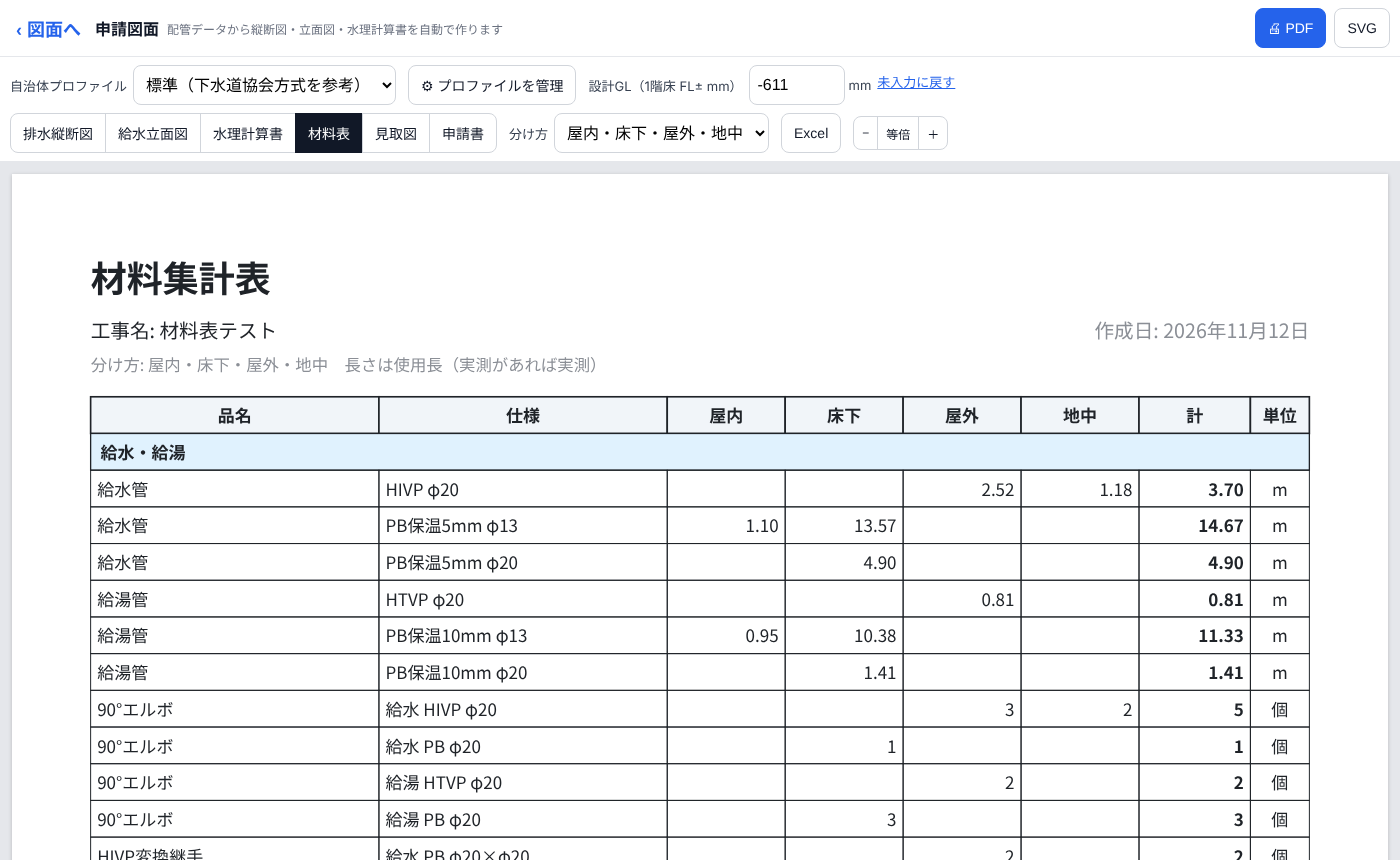
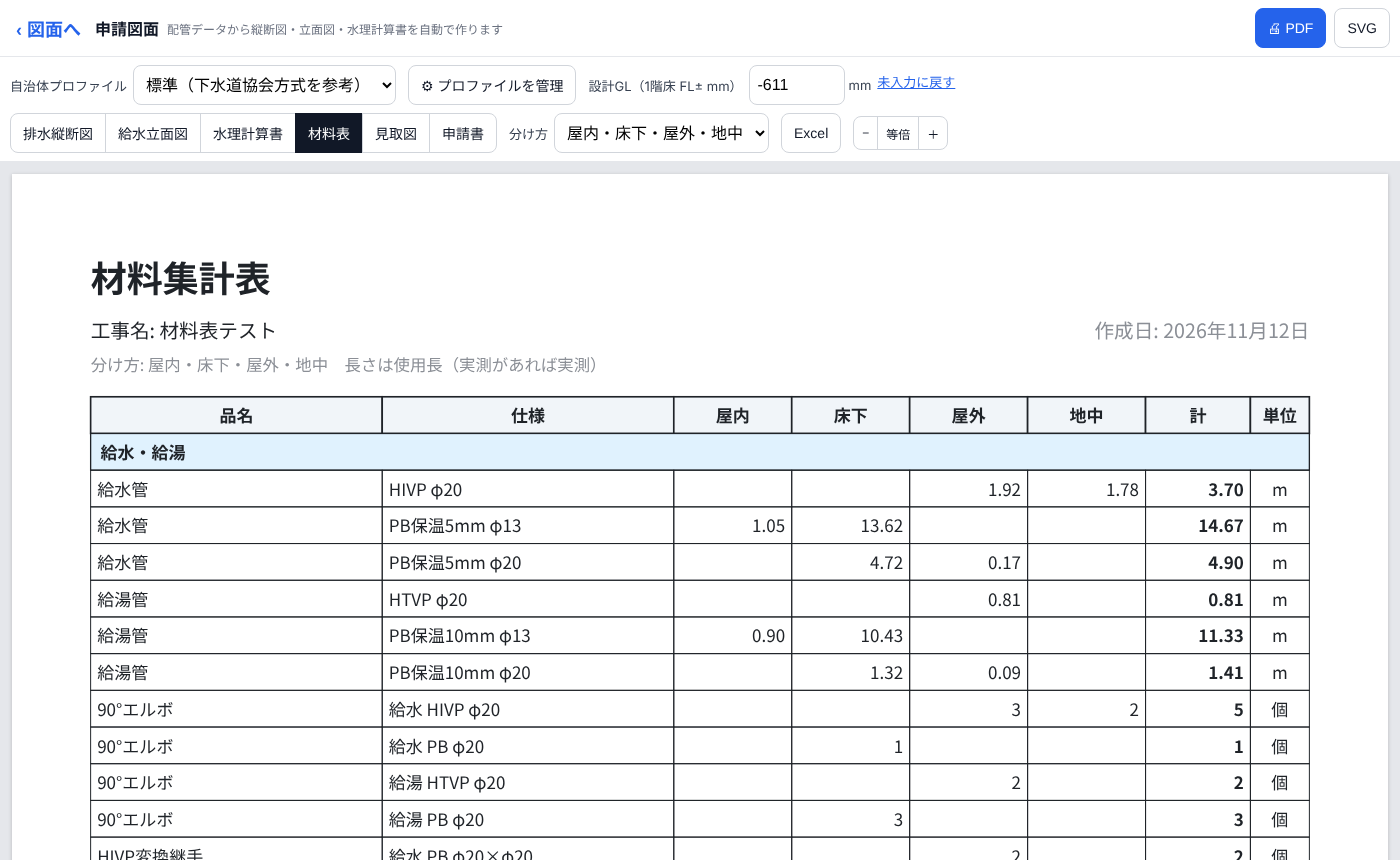
fix(材料集計表): レビュー指摘の修正（既設の管への新しい分岐は新設・定尺の継ぎ目の場所・外壁や床をまたぐ区間を按分・外壁が閉じていないときは高さで分けて注意・階が多いと A4 横で列幅を確保・角マスは□）
Claude-Session: https://claude.ai/code/session_0147UKVvh1jvwGpYxGadQEHZ

diff --git a/src/model/materialSummary.ts b/src/model/materialSummary.ts
@@ -6,7 +6,7 @@ import type { Building, Floor } from './building';
 import type { Doc } from './doc';
 import { computeEstimate, fittingSpec, pipeSpec } from './estimate';
 import { FIXTURE_CATALOG, fixtureBaseZ, groundZAt, isManhole } from './fixtures';
-import type { SystemType, Vec3 } from './network';
+import type { Segment, SystemType, Vec3 } from './network';
 import { pointInPolygon } from './roomOps';
 import { outlineLoop } from './sketch';
 
@@ -15,7 +15,7 @@ export const MAT_AXIS_LABEL: Record<MatAxis, string> = { place: '屋内・床下
 export type MatColumn = { key: string; label: string };
 export type MatItem = { kind: 'pipe' | 'fitting' | 'fixture' | 'manhole'; name: string; spec: string; unit: 'm' | '個' | '台'; qty: Record<string, number>; total: number };
 export type MatSection = { title: string; items: MatItem[] };
-export type MatSummary = { axis: MatAxis; columns: MatColumn[]; sections: MatSection[] };
+export type MatSummary = { axis: MatAxis; columns: MatColumn[]; sections: MatSection[]; /** 画面に出す注意 */ warnings: string[] };
 
 const SECTIONS = ['給水・給湯', '排水・通気', 'その他', '器具'] as const;
 const sectionOf = (s: SystemType): (typeof SECTIONS)[number] => (s === 'water' || s === 'hotWater' ? '給水・給湯' : s === 'drain' || s === 'sewage' || s === 'vent' ? '排水・通気' : 'その他');
@@ -23,23 +23,44 @@ const sectionOf = (s: SystemType): (typeof SECTIONS)[number] => (s === 'water' |
 const PLACE: MatColumn[] = [{ key: 'indoor', label: '屋内' }, { key: 'under', label: '床下' }, { key: 'outdoor', label: '屋外' }, { key: 'buried', label: '地中' }];
 const STATUS: MatColumn[] = [{ key: 'new', label: '新設' }, { key: 'existing', label: '既設' }];
 
+type Classifier = { columns: MatColumn[]; at: (p: Vec3, existing: boolean) => string; /** 区間を分ける所（外壁の輪・床・地面）の配管上の t */ cuts: (a: Vec3, b: Vec3) => number[]; warnings: string[] };
+
+/** 平面で線分 a-b が線分 c-d を横切る a-b 上の t（端は含まない） */
+function crossT(a: Vec3, b: Vec3, c: { x: number; y: number }, d: { x: number; y: number }): number | null {
+  const rx = b.x - a.x, ry = b.y - a.y, sx = d.x - c.x, sy = d.y - c.y;
+  const den = rx * sy - ry * sx;
+  if (Math.abs(den) < 1e-9) return null;
+  const t = ((c.x - a.x) * sy - (c.y - a.y) * sx) / den, u = ((c.x - a.x) * ry - (c.y - a.y) * rx) / den;
+  return t > 1e-9 && t < 1 - 1e-9 && u >= 0 && u <= 1 ? t : null;
+}
+
 /** 点の列（分け方ごと） */
-function classifier(doc: Doc, axis: MatAxis): { columns: MatColumn[]; at: (p: Vec3, existing: boolean) => string } {
+function classifier(doc: Doc, axis: MatAxis): Classifier {
   const b: Building = doc.building;
   const floors = [...b.floors].sort((x, y) => x.elevation - y.elevation);
   const f0: Floor | undefined = floors[0];
-  if (axis === 'status') return { columns: STATUS, at: (_p, ex) => (ex ? 'existing' : 'new') };
+  if (axis === 'status') return { columns: STATUS, at: (_p, ex) => (ex ? 'existing' : 'new'), cuts: () => [], warnings: [] };
   const loop = f0 ? outlineLoop(b, f0.id) : null;
   const ring = loop ? loop.corners.map((id) => b.corners[id]) : null;
+  const warnings = !ring && Object.keys(b.walls).length ? ['1 階の外壁が 1 周つながっていないため、屋内と屋外を分けられません。高さで分けています（地面より下＝地中、床より下＝床下）'] : [];
   const place = (p: Vec3) => {
-    const inside = !ring || pointInPolygon(p, ring);
-    if (inside) return f0 && p.z < f0.elevation ? 'under' : 'indoor';
-    return p.z < groundZAt(b, doc.site, p) - 1 ? 'buried' : 'outdoor';
+    const below = p.z < groundZAt(b, doc.site, p) - 1;
+    if (!ring) return below ? 'buried' : f0 && p.z < f0.elevation ? 'under' : 'indoor';
+    if (pointInPolygon(p, ring)) return f0 && p.z < f0.elevation ? 'under' : 'indoor';
+    return below ? 'buried' : 'outdoor';
+  };
+  /** 区間を分ける所: 外壁の輪をまたぐ所、各階の床・地面の高さをまたぐ所 */
+  const levels = [...floors.map((f) => f.elevation), groundZAt(b, doc.site, { x: 0, y: 0 })];
+  const cuts = (a: Vec3, c: Vec3) => {
+    const ts: number[] = [];
+    if (ring) ring.forEach((p, i) => { const t = crossT(a, c, p, ring[(i + 1) % ring.length]); if (t !== null) ts.push(t); });
+    if (Math.abs(c.z - a.z) > 1e-9) for (const z of levels) { const t = (z - a.z) / (c.z - a.z); if (t > 1e-9 && t < 1 - 1e-9) ts.push(t); }
+    return ts.sort((x, y) => x - y);
   };
   if (axis === 'floor') {
     // 床下（建物の中で 1 階の床より下）と地中（外で地面より下）は別の列。外の地面より上の管は 1 階
     const cols: MatColumn[] = [{ key: 'below', label: '床下・地中' }, ...floors.map((f) => ({ key: f.id, label: f.name }))];
-    return { columns: cols, at: (p) => {
+    return { columns: cols, cuts, warnings, at: (p) => {
       const pl = place(p);
       if (!f0 || pl === 'under' || pl === 'buried') return 'below';
       let k = f0.id;
@@ -47,13 +68,17 @@ function classifier(doc: Doc, axis: MatAxis): { columns: MatColumn[]; at: (p: Ve
       return k;
     } };
   }
-  return { columns: PLACE, at: (p) => place(p) };
+  return { columns: PLACE, at: (p) => place(p), cuts, warnings };
 }
 
 export function materialSummary(doc: Doc, axis: MatAxis): MatSummary {
   const net = doc.network;
   const est = computeEstimate(doc);
-  const { columns, at } = classifier(doc, axis);
+  const { columns, at, cuts, warnings } = classifier(doc, axis);
+  const segsAt = new Map<string, Segment[]>();
+  for (const s of Object.values(net.segments)) for (const n of [s.a, s.b]) segsAt.set(n, [...(segsAt.get(n) ?? []), s]);
+  /** 部品の点が既設: つながる区間が全部既設のとき（既設の管に新しく付けた分岐のチーズは新設） */
+  const nodeExisting = (nid: string) => { const l = segsAt.get(nid) ?? []; return l.length > 0 && l.every((x) => x.existing); };
   const bySection = new Map<string, Map<string, MatItem>>();
   const add = (section: string, kind: MatItem['kind'], name: string, spec: string, unit: MatItem['unit'], col: string, n: number) => {
     if (!bySection.has(section)) bySection.set(section, new Map());
@@ -66,11 +91,18 @@ export function materialSummary(doc: Doc, axis: MatAxis): MatSummary {
   };
   const mid = (a: Vec3, b: Vec3): Vec3 => ({ x: (a.x + b.x) / 2, y: (a.y + b.y) / 2, z: (a.z + b.z) / 2 });
 
-  // 管（区間ごとに中点の場所）
+  // 管（外壁・床・地面をまたぐ所で区間を分け、使用長を按分。それぞれ中点の場所）
+  const lerp = (a: Vec3, b: Vec3, t: number): Vec3 => ({ x: a.x + (b.x - a.x) * t, y: a.y + (b.y - a.y) * t, z: a.z + (b.z - a.z) * t });
   for (const p of est.pipes) for (const sid of p.segmentIds) {
     const s = net.segments[sid], A = s && net.nodes[s.a], B = s && net.nodes[s.b];
     if (!s || !A || !B) continue;
-    add(sectionOf(p.system), 'pipe', p.name, pipeSpec(p), 'm', at(mid(A.pos, B.pos), !!s.existing), (est.measures[sid]?.usedLength ?? 0) / 1000);
+    const used = (est.measures[sid]?.usedLength ?? 0) / 1000;
+    const ts = [0, ...cuts(A.pos, B.pos), 1];
+    for (let i = 1; i < ts.length; i++) {
+      const share = ts[i] - ts[i - 1];
+      if (share <= 0) continue;
+      add(sectionOf(p.system), 'pipe', p.name, pipeSpec(p), 'm', at(mid(lerp(A.pos, B.pos, ts[i - 1]), lerp(A.pos, B.pos, ts[i])), !!s.existing), used * share);
+    }
   }
   // 部品（点の場所。点の無い分はいちばん多い列）
   for (const f of est.fittings) {
@@ -78,13 +110,18 @@ export function materialSummary(doc: Doc, axis: MatAxis): MatSummary {
     for (const nid of f.nodeIds) {
       const n = net.nodes[nid];
       if (!n) continue;
-      const ex = Object.values(net.segments).some((s) => (s.a === nid || s.b === nid) && s.existing);
-      const c = at(n.pos, ex);
+      const c = at(n.pos, nodeExisting(nid));
+      cnt[c] = (cnt[c] ?? 0) + 1;
+    }
+    // 定尺の継ぎ足し（ソケット）は継ぎ目の場所
+    for (const m of est.stockJointMarks) if (m.key === f.key) {
+      const c = at(m.pos, !!net.segments[m.segId]?.existing);
       cnt[c] = (cnt[c] ?? 0) + 1;
     }
     const placed = Object.values(cnt).reduce((a, b) => a + b, 0);
-    const top = Object.entries(cnt).sort((a, b) => b[1] - a[1])[0]?.[0] ?? columns[0].key;
-    if (f.count > placed) cnt[top] = (cnt[top] ?? 0) + (f.count - placed);
+    // それでも場所の分からない分（無いはず）は、いちばん多い列へ
+    const top = Object.entries(cnt).sort((a, b) => b[1] - a[1])[0]?.[0];
+    if (f.count > placed && top) cnt[top] += f.count - placed;
     for (const [c, n] of Object.entries(cnt)) add(sectionOf(f.system), 'fitting', f.name, fittingSpec(f), '個', c, n);
   }
   // 器具・マス（器具の置き場所）
@@ -94,7 +131,7 @@ export function materialSummary(doc: Doc, axis: MatAxis): MatSummary {
     const manhole = isManhole(fx.type);
     const z = manhole ? groundZAt(doc.building, doc.site, fx) : fixtureBaseZ(fx, floor);
     const c = at({ x: fx.x, y: fx.y, z }, !!fx.params?.existing);
-    if (manhole) add('排水・通気', 'manhole', FIXTURE_CATALOG[fx.type].label, `φ${fx.params?.diameter ?? FIXTURE_CATALOG[fx.type].size.w}`, '個', c, 1);
+    if (manhole) add('排水・通気', 'manhole', FIXTURE_CATALOG[fx.type].label, `${fx.params?.shape === 'square' ? '□' : 'φ'}${fx.params?.diameter ?? FIXTURE_CATALOG[fx.type].size.w}`, '個', c, 1);
     else add('器具', 'fixture', FIXTURE_CATALOG[fx.type].label, '', '台', c, 1);
   }
 
@@ -105,5 +142,5 @@ export function materialSummary(doc: Doc, axis: MatAxis): MatSummary {
   // 使った列だけ（階ごとは建物の階を全部出す）
   const used = new Set(sections.flatMap((s) => s.items.flatMap((i) => Object.keys(i.qty))));
   const cols = axis === 'floor' ? columns.filter((c) => c.key !== 'below' || used.has('below')) : columns.filter((c) => used.has(c.key));
-  return { axis, columns: cols, sections };
+  return { axis, columns: cols, sections, warnings };
 }

diff --git a/src/export/materialSheet.ts b/src/export/materialSheet.ts
@@ -3,12 +3,15 @@
  * 行があふれたら続きのページ（表の見出しと区分の見出しを繰り返す）。文字は LabelPlacer、セルの中は fitText。
  */
 import { MAT_AXIS_LABEL, type MatItem, type MatSummary } from '../model/materialSummary';
-import { at, LabelPlacer } from './labelLayout';
+import { at, LabelPlacer, textWidth } from './labelLayout';
 import { dateJa } from './report';
 import { fitText, GRAY, INK, type Sheet } from './sheet';
 
+/** A4 縦の 1 ページの行数（A4 横は用紙の高さから決める） */
 export const MATERIAL_ROWS_PER_PAGE = 40;
-const W = 210, H = 297, M = 12;
+const M = 12;
+/** 列の最小・最大の幅（mm） */
+const NAME_MIN = 30, SPEC_MIN = 36, SPEC_MAX = 48, COL_MIN = 12, COL_MAX = 18, UNIT_W = 9, TOTAL_W = 16;
 const TOP = 34, ROW_H = 5.6, SIZE = 2.6;
 
 const fmt = (it: MatItem, n: number | undefined) => (!n ? '' : it.unit === 'm' ? n.toFixed(2) : String(Math.round(n)));
@@ -17,15 +20,21 @@ type Line = { kind: 'section'; title: string; cont: boolean } | { kind: 'item'; 
 
 export function renderMaterialSheets(sum: MatSummary, meta: { siteName: string; date: Date }): Sheet[] {
   if (!sum.sections.length) return [];
-  // 列: 品名・仕様・分け方の列・計・単位（幅は列の数で決める）
+  // 列: 品名・仕様・分け方の列・計・単位。A4 縦に入らない列の数（階が多い）なら A4 横
   const nCols = sum.columns.length;
-  const unitW = 9, totalW = 17, colW = Math.min(18, Math.max(14, (W - M * 2 - 76 - totalW - unitW) / Math.max(1, nCols)));
-  const specW = Math.min(44, W - M * 2 - totalW - unitW - colW * nCols - 40);
-  const nameW = W - M * 2 - totalW - unitW - colW * nCols - specW;
+  const fixed = NAME_MIN + SPEC_MIN + UNIT_W + TOTAL_W;
+  const landscape = fixed + COL_MIN * nCols > 210 - M * 2;
+  const W = landscape ? 297 : 210, H = landscape ? 210 : 297;
+  const avail = W - M * 2;
+  const colW = Math.max(COL_MIN, Math.min(COL_MAX, (avail - fixed) / Math.max(1, nCols)));
+  const rest = avail - UNIT_W - TOTAL_W - colW * nCols;
+  const specW = Math.max(SPEC_MIN, Math.min(SPEC_MAX, rest * 0.5));
+  const nameW = rest - specW;
+  const rowsPerPage = landscape ? Math.floor((H - TOP - 16) / ROW_H) - 1 : MATERIAL_ROWS_PER_PAGE;
   const cols = [
     { k: '品名', w: nameW, align: 'start' as const }, { k: '仕様', w: specW, align: 'start' as const },
     ...sum.columns.map((c) => ({ k: c.label, w: colW, align: 'end' as const })),
-    { k: '計', w: totalW, align: 'end' as const }, { k: '単位', w: unitW, align: 'middle' as const },
+    { k: '計', w: TOTAL_W, align: 'end' as const }, { k: '単位', w: UNIT_W, align: 'middle' as const },
   ];
 
   // ページに分ける（区分の見出しはページの最後に残さない）
@@ -35,7 +44,7 @@ export function renderMaterialSheets(sum: MatSummary, meta: { siteName: string; 
   for (let i = 0; i < lines.length; i++) {
     const l = lines[i];
     if (l.kind === 'section') section = l.title;
-    const full = cur.length >= MATERIAL_ROWS_PER_PAGE || (l.kind === 'section' && cur.length >= MATERIAL_ROWS_PER_PAGE - 1);
+    const full = cur.length >= rowsPerPage || (l.kind === 'section' && cur.length >= rowsPerPage - 1);
     if (full) { pages.push(cur); cur = l.kind === 'item' ? [{ kind: 'section', title: section, cont: true }] : []; }
     cur.push(l);
   }
@@ -53,7 +62,10 @@ export function renderMaterialSheets(sum: MatSummary, meta: { siteName: string; 
     let x = M;
     for (const c of cols) {
       sheet.ops.push({ t: 'rect', x, y: TOP, w: c.w, h: ROW_H, fill: '#f1f5f9', stroke: INK, lw: 0.25 });
-      P.place([at(x + c.w / 2, TOP + ROW_H - 1.7, { s: fitText(c.k, SIZE, c.w - 1.5), size: SIZE, bold: true }, 'middle')]);
+      // 細い列の見出しは、入るまで字を小さくする（1.8 まで。それでも長ければ … で切る）
+      let hs = SIZE;
+      while (hs > 1.8 && textWidth(c.k, hs) > c.w - 1) hs -= 0.1;
+      P.place([at(x + c.w / 2, TOP + ROW_H - 1.7, { s: fitText(c.k, hs, c.w - 1), size: hs, bold: true }, 'middle')]);
       x += c.w;
     }
     rows.forEach((l, i) => {

diff --git a/src/model/materialSummary.test.ts b/src/model/materialSummary.test.ts
@@ -64,4 +64,49 @@ describe('材料集計表', () => {
     expect(materialSummary(empty, 'place').sections).toEqual([]);
     void addFloor;
   });
+
+  test('既設の本管に新しく分岐したチーズは新設', () => {
+    const doc = site();
+    let r = addPolyline(emptyNetwork(), [v(1000, 3000, 200), v(3000, 3000, 200), v(5000, 3000, 200)], W);
+    const mid = r.nodeIds[1];
+    const mains = [...r.segmentIds];
+    r = addPolyline(r.net, [v(3000, 3000, 200), v(3000, 5000, 200)], W, { startNodeId: mid });
+    for (const id of mains) r.net.segments[id] = { ...r.net.segments[id], existing: true };
+    doc.network = r.net;
+    const tee = materialSummary(doc, 'status').sections[0].items.find((i) => i.name === 'チーズ')!;
+    expect(tee.qty).toEqual({ new: 1 });
+  });
+  test('定尺の継ぎ足し（ソケット）は継ぎ目の場所の列', () => {
+    const doc = site();
+    doc.network = addPolyline(emptyNetwork(), [v(-1000, -2000, -900), v(-1000, -14000, -900)], D).net; // 外の地中 12m
+    doc.fixtures = {}; // 器具（屋内のトイレ）は無し: 列は地中だけになるはず
+    const s = materialSummary(doc, 'place');
+    const sock = s.sections.find((x) => x.title === '排水・通気')!.items.find((i) => i.name === 'ソケット')!;
+    expect(Object.keys(sock.qty)).toEqual(['buried']);
+    expect(s.columns.map((c) => c.key)).not.toContain('indoor');
+  });
+  test('外壁をまたぐ 1 本の区間は、またいだ所で分けて長さを按分', () => {
+    const doc = site();
+    doc.network = addPolyline(emptyNetwork(), [v(4000, 1000, -700), v(-6000, 1000, -700)], W).net; // 中 4m（床下）・外 6m（地中）
+    const it = materialSummary(doc, 'place').sections[0].items.find((i) => i.kind === 'pipe')!;
+    expect(it.qty.under).toBeCloseTo(4, 6); expect(it.qty.buried).toBeCloseTo(6, 6);
+  });
+  test('外壁の輪が閉じていないときは高さで分け、注意を出す', () => {
+    const doc = site();
+    const ext = Object.values(doc.building.walls).find((w) => w.kind === 'exterior')!;
+    const walls = { ...doc.building.walls }; delete walls[ext.id];
+    doc.building = { ...doc.building, walls };
+    doc.network = addPolyline(emptyNetwork(), [v(-3000, 3000, -900), v(-6000, 3000, -900)], D).net; // 地面より下
+    const s = materialSummary(doc, 'place');
+    expect(s.sections[0].items.find((i) => i.kind === 'pipe')!.qty).toEqual({ buried: 3 });
+    expect(s.warnings.join('')).toContain('外壁');
+  });
+  test('角マスは □、丸マスは φ', () => {
+    const doc = site();
+    const f = doc.building.floors[0].id;
+    const d2 = placeFixture(doc, f, 'manholeSewage', { x: -3000, y: 1000 }, 0, { shape: 'square', diameter: 250 }).doc;
+    const specs = materialSummary(d2, 'place').sections.find((x) => x.title === '排水・通気')!.items.filter((i) => i.kind === 'manhole').map((i) => i.spec).sort();
+    expect(specs).toEqual(['φ300', '□250']);
+  });
 });
+

diff --git a/src/export/materialSheet.test.ts b/src/export/materialSheet.test.ts
@@ -48,6 +48,20 @@ describe('材料集計表の用紙', () => {
     expect(texts(sheets[1].ops)).toContain('品名');
     for (const sh of sheets) expect(findTextOverlaps(sh)).toEqual([]);
   });
+  test('階が多い（9 階）と A4 横になり、仕様の列が細くなりすぎず、文字が重ならない', () => {
+    let b = createBuildingFromDims({ width: 8000, depth: 6000, floors: 9, floorHeight: 2900, wallThickness: 150, slabThickness: 200 });
+    let net = emptyNetwork();
+    b.floors.forEach((f, i) => { net = addPolyline(net, [v(500, 500 + i * 300, f.elevation + 300), v(3000, 500 + i * 300, f.elevation + 300)], { system: i % 2 ? 'hotWater' : 'water', diameter: 20, material: 'HIVP' }).net; });
+    net = addPolyline(net, [v(500, 5500, -400), v(3000, 5500, -400)], { system: 'water', diameter: 20, material: 'HIVP' }).net; // 床下
+    const doc: Doc = { building: b, network: net, fixtures: {} };
+    const sheets = renderMaterialSheets(materialSummary(doc, 'floor'), meta);
+    expect([sheets[0].width, sheets[0].height]).toEqual([297, 210]);
+    for (const sh of sheets) expect(findTextOverlaps(sh)).toEqual([]);
+    const t = texts(sheets[0].ops);
+    expect(t).toContain('床下・地中');
+    expect(t.some((x) => x === 'HIVP φ20')).toBe(true);
+    void b;
+  });
   test('材料が無ければ用紙なし', () => {
     const doc: Doc = { building: createBuildingFromDims({ width: 8000, depth: 6000, floors: 1, floorHeight: 2900, wallThickness: 150, slabThickness: 200 }), network: emptyNetwork(), fixtures: {} };
     expect(renderMaterialSheets(materialSummary(doc, 'place'), meta)).toEqual([]);

diff --git a/src/export/noOverlap.test.ts b/src/export/noOverlap.test.ts
@@ -189,5 +189,12 @@ describe('材料集計表でも文字が重ならない', () => {
     const { renderMaterialSheets } = await import('./materialSheet');
     const doc = routeSupplies(supplyHouse().doc).doc;
     for (const axis of ['place', 'floor', 'status'] as const) for (const sh of renderMaterialSheets(materialSummary(doc, axis), { siteName: '共同住宅新築工事に伴う給排水衛生設備工事（第二期）その１ 追加工事を含む', date: meta.date })) expect(findTextOverlaps(sh)).toEqual([]);
+    // 9 階建て（A4 横・細い列）
+    const { createBuildingFromDims } = await import('../model/building');
+    const tall = createBuildingFromDims({ width: 8000, depth: 6000, floors: 9, floorHeight: 2900, wallThickness: 150, slabThickness: 200 });
+    let net = emptyNetwork();
+    tall.floors.forEach((f, i) => { net = addPolyline(net, [v(500, 500 + i * 300, f.elevation + 300), v(3000, 500 + i * 300, f.elevation + 300)], { system: 'water', diameter: 20, material: 'HIVP' }).net; });
+    net = addPolyline(net, [v(500, 5500, -400), v(3000, 5500, -400)], { system: 'water', diameter: 20, material: 'HIVP' }).net;
+    for (const sh of renderMaterialSheets(materialSummary({ building: tall, network: net, fixtures: {} }, 'floor'), { siteName: 'テスト', date: meta.date })) expect(findTextOverlaps(sh)).toEqual([]);
   });
 });

diff --git a/src/ui/ShinseiScreen.tsx b/src/ui/ShinseiScreen.tsx
@@ -203,9 +203,10 @@ export function ShinseiScreen({ onClose }: { onClose: () => void }) {
     if (kind === 'forms') return { sheets: [], svg: '', warnings: [], error: null, kind };
     if (kind === 'material') {
       // 材料集計表: 管・部品・器具・マスを分け方（屋内外／階／新設既設）の列で
-      const sheets = renderMaterialSheets(materialSummary(doc, matAxis), { siteName, date });
+      const sum = materialSummary(doc, matAxis);
+      const sheets = renderMaterialSheets(sum, { siteName, date });
       if (!sheets.length) return { sheets: [], svg: '', warnings: [], error: '材料（配管・器具）がありません。図面で配管や器具を置いてください', kind };
-      return { sheets, svg: sheets.map(sheetToSvg).join(''), warnings: [], error: null, kind };
+      return { sheets, svg: sheets.map(sheetToSvg).join(''), warnings: sum.warnings, error: null, kind };
     }
     if (kind === 'mitori') {
       if (mapSettings.lat === undefined) return { sheets: [], svg: '', warnings: [], error: '工事場所が決まっていません。住所を入れて「探す」を押してください（緯度,経度でも指定できます）', kind };

diff --git a/docs/superpowers/specs/2026-11-12-material-summary-design.md b/docs/superpowers/specs/2026-11-12-material-summary-design.md
@@ -9,8 +9,9 @@
 - 行: 管（管種・口径ごとの長さ m、実測優先）・継手などの部品（個）・器具（台）・マス（個）。各列と計
 
 ## 決定
-- 区間の場所は区間の中点で決める: 建物（1 階の外壁の輪）の中で 1 階の床より下 → 床下、中 → 屋内、外で地面より下 → 地中、外 → 屋外。輪が無ければ全部屋内
-- 部品は積算の部品（nodeIds）の点の場所で数える。定尺の継ぎ足しなど点の無い分は、その部品のいちばん多い列に足す
+- 区間は外壁の輪・各階の床・地面の高さをまたぐ所で分け、使用長を按分して、それぞれの中点の場所で決める: 建物（1 階の外壁の輪）の中で 1 階の床より下 → 床下、中 → 屋内、外で地面より下 → 地中、外 → 屋外。輪が閉じていなければ高さで分け（地面より下＝地中、床より下＝床下）、画面に注意
+- 部品は積算の部品（nodeIds）の点の場所で数える。定尺の継ぎ足しは継ぎ目の場所。新設・既設は、つながる区間が全部既設の点だけ既設（既設の管に付けた新しい分岐のチーズは新設）
+- 列が A4 縦に入らない（階が多い）ときは A4 横。仕様の列は 36mm 以上
 - 長さは積算の使用長（実測優先）。計は積算の数量表と一致する
 - 申請画面の新しい種類「材料表」（A4 縦、ページあふれは続き）。PDF・SVG。文字は表の枠の中（fitText）、noOverlap に追加
 - 保存形式は変えない。分け方の選択は site.application の `zairyo.axis`
